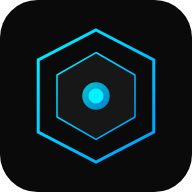
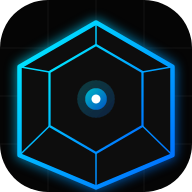
'mission-complete-fixes'

diff --git a/client/src/components/pages/SuperAdminDashboard.jsx b/client/src/components/pages/SuperAdminDashboard.jsx
@@ -358,7 +358,7 @@ const SuperAdminDashboard = () => {
         }
 
         if (videoId) {
-            const thumbUrl = `https:
+            const thumbUrl = `https://img.youtube.com/vi/${videoId}/maxresdefault.jpg`;
             setCourseForm(prev => ({ ...prev, youtubeId: videoId, thumbnailUrl: thumbUrl }));
             
             try {
@@ -371,7 +371,7 @@ const SuperAdminDashboard = () => {
             } catch (err) {
                 console.error("Meta fetch error", err);
                 try {
-                    const response = await fetch(`https:
+                    const response = await fetch(`https://noembed.com/embed?url=https://www.youtube.com/watch?v=${videoId}`);
                     const data = await response.json();
                     if (data.title) {
                         setCourseForm(prev => ({ ...prev, title: data.title }));
@@ -467,14 +467,14 @@ const SuperAdminDashboard = () => {
                                         <tbody className="divide-y divide-gray-50">
                                             {users.filter(u => !u.isApproved).length === 0 ? (
                                                 <tr>
-                                                    <td colSpan="3" className="py-8 text-center text-gray-400 text-xs font-mono">NO PENDING REQUESTS 
+                                                    <td colSpan="3" className="py-8 text-center text-gray-400 text-xs font-mono">NO PENDING REQUESTS</td>
                                                 </tr>
                                             ) : (
                                                 users.filter(u => !u.isApproved).map(user => (
                                                     <tr key={user._id} className="group hover:bg-gray-50 transition-colors">
                                                         <td className="py-4">
                                                             <div className="flex items-center gap-3">
-                                                                <img src={user.profileImage || `https:
+                                                                <img src={user.profileImage || `https://api.dicebear.com/7.x/avataaars/svg?seed=${user.name}`} className="w-8 h-8 rounded-full border border-gray-100" alt="" />
                                                                 <div>
                                                                     <div className="font-bold text-gray-900 text-sm">{user.name}</div>
                                                                     <div className="text-[10px] text-gray-400 font-mono">{user.email}</div>
@@ -661,7 +661,7 @@ const SuperAdminDashboard = () => {
                                         </div>
                                         {p.liveLink && (
                                             <a href={p.liveLink} target="_blank" rel="noopener noreferrer" className="text-[10px] text-gray-400 hover:text-green-600 font-mono transition-colors border-b border-transparent hover:border-green-200 opacity-0 group-hover:opacity-100">
-                                                {p.liveLink.replace('https:
+                                                {p.liveLink.replace('https://', '')}
                                             </a>
                                         )}
                                     </div>
@@ -721,7 +721,7 @@ const SuperAdminDashboard = () => {
                                             </div>
                                             {projectForm.title && (
                                                 <div className="text-[10px] text-blue-600/70 font-mono pl-4">
-                                                    Target: https:
+                                                    Target: https://${projectForm.title.toLowerCase().replace(/\s+/g, '-')}.github.io/Team-Curiosity-offical-Websitee/
                                                 </div>
                                             )}
                                         </div>
@@ -906,7 +906,7 @@ const SuperAdminDashboard = () => {
                             </div>
                             {courses.length === 0 && (
                                 <div className="p-20 text-center bg-gray-50 rounded-xl border border-dashed border-gray-200">
-                                    <div className="text-gray-300 mb-2 font-mono text-xs uppercase tracking-[0.2em]">No Courses Deployed 
+                                    <div className="text-gray-300 mb-2 font-mono text-xs uppercase tracking-[0.2em]">No Courses Deployed</div>
                                     <p className="text-gray-400 text-[10px] uppercase">Add your first YouTube course using the uplink protocol.</p>
                                 </div>
                             )}
@@ -919,7 +919,7 @@ const SuperAdminDashboard = () => {
                                         <label className="text-[10px] uppercase font-bold text-gray-400 tracking-wider">YouTube Uplink [URL]</label>
                                         <input 
                                             className="w-full bg-white border border-gray-200 p-3 rounded text-sm text-gray-900 focus:border-red-500 outline-none mt-1 shadow-sm" 
-                                            placeholder="https:
+                                            placeholder="https://www.youtube.com/watch?v=..."
                                             value={courseForm.youtubeLink} 
                                             onChange={e => handleYoutubeLinkChange(e.target.value)} 
                                             required 
@@ -1047,7 +1047,7 @@ const SuperAdminDashboard = () => {
                             </div>
                             {notes.length === 0 && (
                                 <div className="p-20 text-center bg-gray-50 rounded-xl border border-dashed border-gray-200">
-                                    <div className="text-gray-300 mb-2 font-mono text-xs uppercase tracking-[0.2em]">No Academic Archives 
+                                    <div className="text-gray-300 mb-2 font-mono text-xs uppercase tracking-[0.2em]">No Academic Archives</div>
                                     <p className="text-gray-400 text-[10px] uppercase">Upload your first PDF resource to the central archive.</p>
                                 </div>
                             )}
@@ -1060,7 +1060,7 @@ const SuperAdminDashboard = () => {
                                         <label className="text-[10px] uppercase font-bold text-gray-400 tracking-wider">PDF Source Uplink</label>
                                         <input 
                                             className="w-full bg-white border border-gray-200 p-3 rounded text-sm text-gray-900 focus:border-red-500 outline-none mt-1 shadow-sm" 
-                                            placeholder="https:
+                                            placeholder="https://github.com/username"
                                             value={noteForm.pdfUrl} 
                                             onChange={e => setNoteForm({...noteForm, pdfUrl: e.target.value})} 
                                             required 

diff --git a/client/src/components/pages/AdminDashboard.jsx b/client/src/components/pages/AdminDashboard.jsx
@@ -210,7 +210,7 @@ const AdminDashboard = () => {
         const videoId = (match && match[2].length === 11) ? match[2] : '';
 
         if (videoId) {
-            const thumbUrl = `https:
+            const thumbUrl = `https://img.youtube.com/vi/${videoId}/maxresdefault.jpg`;
             setCourseForm(prev => ({ ...prev, youtubeId: videoId, thumbnailUrl: thumbUrl }));
             try {
                 const { data } = await api.get(`/courses/yt-metadata/${videoId}`);
@@ -223,7 +223,7 @@ const AdminDashboard = () => {
                 console.error("METADATA_FETCH_PROTOCOL_ERROR:", err);
                 
                 try {
-                    const resp = await fetch(`https:
+                    const resp = await fetch(`https://noembed.com/embed?url=https://www.youtube.com/watch?v=${videoId}`);
                     const data = await resp.json();
                     if (data.title) setCourseForm(prev => ({ ...prev, title: data.title }));
                 } catch (e) { console.error(e); }
@@ -454,7 +454,7 @@ const AdminDashboard = () => {
                                             )}
                                             {project.liveLink && (
                                                 <a href={project.liveLink} target="_blank" rel="noopener noreferrer" className="text-[10px] text-gray-400 hover:text-green-600 font-mono transition-colors border-b border-transparent hover:border-green-200">
-                                                    {project.liveLink.replace('https:
+                                                    {project.liveLink.replace('https://', '')}
                                                 </a>
                                             )}
                                         </div>
@@ -513,7 +513,7 @@ const AdminDashboard = () => {
                                             </div>
                                             {projectForm.title && (
                                                 <div className="text-[10px] text-gray-400 font-mono pl-4">
-                                                    Target: https:
+                                                    Target: https://${projectForm.title.toLowerCase().replace(/\s+/g, '-')}.github.io/Team-Curiosity-offical-Websitee/
                                                 </div>
                                             )}
                                         </div>
@@ -549,14 +549,14 @@ const AdminDashboard = () => {
                                 <tbody>
                                     {users.filter(u => !u.isApproved).length === 0 ? (
                                         <tr>
-                                            <td colSpan="3" className="py-8 text-center text-gray-400 text-xs font-mono">NO PENDING REQUESTS 
+                                            <td colSpan="3" className="py-8 text-center text-gray-400 text-xs font-mono">NO PENDING REQUESTS</td>
                                         </tr>
                                     ) : (
                                         users.filter(u => !u.isApproved).map(user => (
                                             <tr key={user._id} className="border-b border-gray-100 last:border-0 hover:bg-gray-50">
                                                 <td className="py-3 px-6">
                                                     <div className="flex items-center gap-3">
-                                                        <img src={user.profileImage || `https:
+                                                        <img src={user.profileImage || `https://api.dicebear.com/7.x/avataaars/svg?seed=${user.name}`} className="w-8 h-8 rounded-full border border-gray-100" alt="" />
                                                         <div>
                                                             <div className="font-bold text-sm">{user.name}</div>
                                                             <div className="text-[10px] text-gray-400 font-mono">{user.email}</div>
@@ -702,7 +702,7 @@ const AdminDashboard = () => {
                             ))}
                             {courses.length === 0 && (
                                 <div className="text-center py-20 bg-gray-50 border border-dashed rounded text-gray-400 text-[10px] uppercase tracking-widest">
-                                    No Courses Found 
+                                    No Courses Found
                                 </div>
                             )}
                         </div>
@@ -712,7 +712,7 @@ const AdminDashboard = () => {
                                 <form onSubmit={handleCourseSubmit} className="space-y-4">
                                     <div>
                                         <label className="text-[10px] uppercase font-bold text-gray-400">YouTube Link</label>
-                                        <input className="w-full border p-2 text-sm mt-1" placeholder="https:
+                                        <input className="w-full border p-2 text-sm mt-1" placeholder="https://www.youtube.com/watch?v=..." value={courseForm.youtubeLink} onChange={e => handleYoutubeLinkChange(e.target.value)} required />
                                     </div>
                                     {courseForm.thumbnailUrl && (
                                         <div className="h-20 w-full rounded overflow-hidden border border-gray-100 mb-2">
@@ -798,7 +798,7 @@ const AdminDashboard = () => {
                             ))}
                             {notes.length === 0 && (
                                 <div className="text-center py-20 bg-gray-50 border border-dashed rounded text-gray-400 text-[10px] uppercase tracking-widest">
-                                    No Academic Notes 
+                                    No Academic Notes
                                 </div>
                             )}
                         </div>
@@ -808,7 +808,7 @@ const AdminDashboard = () => {
                                 <form onSubmit={handleNoteSubmit} className="space-y-4">
                                     <div>
                                         <label className="text-[10px] uppercase font-bold text-gray-400">PDF Uplink [Link]</label>
-                                        <input className="w-full border p-2 text-sm mt-1" placeholder="https:
+                                        <input className="w-full border p-2 text-sm mt-1" placeholder="https://github.com/username" value={noteForm.pdfUrl} onChange={e => setNoteForm({...noteForm, pdfUrl: e.target.value})} required />
                                     </div>
                                     <div>
                                         <label className="text-[10px] uppercase font-bold text-gray-400">Title</label>

diff --git a/client/src/components/layout/Navbar.jsx b/client/src/components/layout/Navbar.jsx
@@ -69,43 +69,7 @@ const Navbar = () => {
         <div className="container mx-auto px-6 h-20 flex items-center justify-between">
             {}
             <Link to="/" className="flex items-center gap-4 z-50 relative hover:opacity-80 transition-opacity group">
-                 <svg width="40" height="40" viewBox="0 0 40 40" fill="none" xmlns="http://www.w3.org/2000/svg">
-                    <defs>
-                        <style>
-                            {`
-                                .shard {
-                                    transform-origin: center;
-                                    animation: assemble 1.5s cubic-bezier(0.16, 1, 0.3, 1) forwards;
-                                }
-                                .shard-1 { animation-delay: 0.1s; transform: translate(-10px, -10px) rotate(-45deg); opacity: 0; }
-                                .shard-2 { animation-delay: 0.2s; transform: translate(10px, -5px) rotate(30deg); opacity: 0; }
-                                .shard-3 { animation-delay: 0.3s; transform: translate(-5px, 15px) rotate(90deg); opacity: 0; }
-                                .core-glow {
-                                    animation: pulse-core 3s infinite ease-in-out;
-                                    opacity: 0;
-                                    animation-delay: 1.5s; 
-                                    animation-fill-mode: forwards; 
-                                }
-                                
-                                @keyframes assemble {
-                                    to { transform: translate(0, 0) rotate(0deg); opacity: 1; }
-                                }
-                                @keyframes pulse-core {
-                                    0%, 100% { opacity: 0.3; transform: scale(0.95); }
-                                    50% { opacity: 0.8; transform: scale(1.05); }
-                                }
-                            `}
-                        </style>
-                    </defs>
-                    
-                    {}
-                    <path d="M20 5L30 25H10L20 5Z" fill="#171717" stroke="#00F3FF" strokeWidth="1" className="shard shard-1"/>
-                    <path d="M10 25L5 35L15 35L10 25Z" fill="#171717" stroke="#00F3FF" strokeWidth="1" className="shard shard-2"/>
-                    <path d="M30 25L35 35L25 35L30 25Z" fill="#171717" stroke="#00F3FF" strokeWidth="1" className="shard shard-3"/>
-                    
-                    {}
-                    <circle cx="20" cy="27" r="2" fill="#00F3FF" className="core-glow"/>
-                </svg>
+                 <img src={`${import.meta.env.BASE_URL}pwa-logo.svg`} alt="Team Curiosity" className="w-10 h-10 object-contain" />
                 
                 <div className="flex flex-col justify-center animate-[fadeIn_1s_ease-out_1.5s_forwards] opacity-0">
                     <span className="text-sm font-bold tracking-[0.2em] text-black leading-none">TEAM</span>

diff --git a/client/src/components/pages/JoinPage.jsx b/client/src/components/pages/JoinPage.jsx
@@ -77,7 +77,7 @@ const JoinPage = () => {
     try {
       const payload = {
         ...formData,
-        avatar: `https:
+        avatar: `https://api.dicebear.com/7.x/avataaars/svg?seed=${selectedAvatar}`,
         programmingLanguages: formData.programmingLanguages.split(',').map(s => s.trim()).filter(s => s),
         inviteToken: token
       };
@@ -142,7 +142,7 @@ const JoinPage = () => {
                         className={`cursor-pointer rounded-full border-2 p-1 transition-all ${selectedAvatar === av.seed ? 'border-black scale-110 shadow-lg' : 'border-transparent hover:border-gray-200 grayscale hover:grayscale-0'}`}
                       >
                           <img 
-                            src={`https:
+                            src={`https://api.dicebear.com/7.x/avataaars/svg?seed=${av.seed}`}
                             alt={av.seed} 
                             className="w-full h-full rounded-full bg-gray-50"
                           />
@@ -258,7 +258,7 @@ const JoinPage = () => {
                         <label className="block text-[10px] font-bold uppercase tracking-wider text-gray-400 mb-1">GitHub Profile</label>
                         <input
                             className="w-full bg-gray-50 border border-gray-200 rounded p-3 text-sm focus:border-black focus:ring-0 outline-none transition-all font-mono"
-                            placeholder="https:
+                            placeholder="https://github.com/username"
                             value={formData.github}
                             onChange={(e) => setFormData({...formData, github: e.target.value})}
                         />
@@ -267,7 +267,7 @@ const JoinPage = () => {
                         <label className="block text-[10px] font-bold uppercase tracking-wider text-gray-400 mb-1">LinkedIn Profile</label>
                         <input
                             className="w-full bg-gray-50 border border-gray-200 rounded p-3 text-sm focus:border-black focus:ring-0 outline-none transition-all font-mono"
-                            placeholder="https:
+                            placeholder="https://linkedin.com/in/username"
                             value={formData.linkedin}
                             onChange={(e) => setFormData({...formData, linkedin: e.target.value})}
                         />

diff --git a/client/src/components/pages/ProfilePage.jsx b/client/src/components/pages/ProfilePage.jsx
@@ -71,7 +71,7 @@ const ProfilePage = () => {
                     <div className="flex items-center gap-6">
                         <div className="w-24 h-24 rounded-full border-2 border-black p-1">
                             <img 
-                                src={user.profileImage || `https:
+                                src={user.profileImage || `https://api.dicebear.com/7.x/avataaars/svg?seed=${user.name}`}
                                 alt="Profile" 
                                 className="w-full h-full rounded-full bg-gray-50 object-cover"
                             />
@@ -174,7 +174,7 @@ const ProfilePage = () => {
                                             className="flex-1 bg-gray-50 border border-black rounded px-2 py-1 text-xs font-mono"
                                             value={editData.github}
                                             onChange={(e) => setEditData({...editData, github: e.target.value})}
-                                            placeholder="https:
+                                            placeholder="https://github.com/username"
                                         />
                                     ) : (
                                         <a href={user.github} target="_blank" rel="noreferrer" className="text-sm font-mono truncate text-blue-600 hover:underline">{user.github || 'N/A'}</a>
@@ -187,7 +187,7 @@ const ProfilePage = () => {
                                             className="flex-1 bg-gray-50 border border-black rounded px-2 py-1 text-xs font-mono"
                                             value={editData.linkedin}
                                             onChange={(e) => setEditData({...editData, linkedin: e.target.value})}
-                                            placeholder="https:
+                                            placeholder="https://linkedin.com/in/username"
                                         />
                                     ) : (
                                         <a href={user.linkedin} target="_blank" rel="noreferrer" className="text-sm font-mono truncate text-blue-600 hover:underline">{user.linkedin || 'N/A'}</a>

diff --git a/client/src/components/sections/Team.jsx b/client/src/components/sections/Team.jsx
@@ -17,7 +17,7 @@ const Team = () => {
                 name: user.role === 'superadmin' ? 'Naseer Pasha' : user.name,
                 codename: `OPERATIVE_0${idx + 1}`,
                 status: "Active",
-                image: `https:
+                image: `https://api.dicebear.com/7.x/avataaars/svg?seed=${user.name}`,
             }));
             const sortedMembers = enhancedData.sort((a, b) => (a.role === 'superadmin' ? -1 : 1));
             setMembers(sortedMembers);
@@ -49,8 +49,7 @@ const Team = () => {
             <div key={member._id} className="group relative bg-white border-2 border-black p-0 overflow-hidden hover:shadow-[8px_8px_0px_0px_rgba(0,0,0,1)] transition-all duration-300">
                 {}
                 <div className="bg-black text-white p-2 flex justify-between items-center font-mono text-[10px] uppercase border-b-2 border-black">
-                    <span>ID: 00{idx + 1}</span>
-                    <span>
+                    <span>{member.codename}</span>
                 </div>
                 
                 <div className="p-6 flex flex-col items-center">

diff --git a/client/src/components/pages/GiftPacket.jsx b/client/src/components/pages/GiftPacket.jsx
@@ -142,7 +142,7 @@ const GiftPacket = ({ onOpen }) => {
                     className="absolute top-1/2 left-1/2 transform -translate-x-1/2 -translate-y-1/2 z-20 cursor-pointer hover:scale-110 transition-transform"
                 >
                     {}
-                    <svg width="120" height="120" viewBox="0 0 100 100" fill="none" xmlns="http:
+                    <svg width="120" height="120" viewBox="0 0 100 100" fill="none" xmlns="http://www.w3.org/2000/svg">
                         <path d="M50 50 C30 20 0 20 0 50 C0 80 30 80 50 50" fill="#EF4444" stroke="#B91C1C" strokeWidth="2"/>
                         <path d="M50 50 C70 20 100 20 100 50 C100 80 70 80 50 50" fill="#EF4444" stroke="#B91C1C" strokeWidth="2"/>
                         <circle cx="50" cy="50" r="10" fill="#B91C1C" />

diff --git a/client/src/components/sections/Leaderboard.jsx b/client/src/components/sections/Leaderboard.jsx
@@ -121,7 +121,7 @@ const Leaderboard = () => {
                                 <div className="col-span-5 flex items-center gap-4">
                                     <div className="w-12 h-12 border-2 border-black p-0.5 shrink-0 bg-white">
                                         <img 
-                                            src={member.profileImage || member.avatar || "https:
+                                            src={member.profileImage || member.avatar || `https://api.dicebear.com/7.x/avataaars/svg?seed=${member.name}`}
                                             alt={member.name} 
                                             className="w-full h-full object-cover grayscale group-hover:grayscale-0 transition-all" 
                                         />

diff --git a/client/src/components/ui/UserGuide.jsx b/client/src/components/ui/UserGuide.jsx
@@ -125,7 +125,7 @@ const UserGuide = () => {
             <div className="bg-[#fcfbf7] w-full max-w-2xl rounded-sm shadow-2xl overflow-hidden relative border-4 border-double border-gray-300" style={{ boxShadow: "10px 10px 30px rgba(0,0,0,0.5)" }}>
                 
                 {}
-                <div className="absolute inset-0 opacity-10 pointer-events-none" style={{ backgroundImage: "url('https:
+                <div className="absolute inset-0 opacity-10 pointer-events-none" style={{ backgroundImage: "url('https://www.transparenttextures.com/patterns/carbon-fibre.png')" }}></div>
 
                 {}
                 <div className="bg-[#1a1a1a] text-[#fcfbf7] p-6 flex justify-between items-center relative z-10 border-b-2 border-[#b8b8b8]">

diff --git a/client/src/components/layout/Footer.jsx b/client/src/components/layout/Footer.jsx
@@ -12,10 +12,10 @@ const Footer = () => {
         </div>
         
         <div className="flex flex-wrap justify-center gap-8 text-sm text-slate-500">
-            <a href="https:
-                <Github size={18} />
-                <span>Github</span>
-            </a>
+             <a href="https://github.com/TeamCuriosity-web" target="_blank" rel="noopener noreferrer" className="flex items-center gap-2 hover:text-black transition-colors">
+                 <Github size={18} />
+                 <span>Github</span>
+             </a>
             <a href="#" className="flex items-center gap-2 hover:text-black transition-colors">
                 <Instagram size={18} />
                 <span>Instagram</span>

diff --git a/client/src/components/ui/ForkInstructionsModal.jsx b/client/src/components/ui/ForkInstructionsModal.jsx
@@ -90,7 +90,7 @@ const ForkInstructionsModal = ({ isOpen, onClose, repoLink }) => {
                                 onClick={() => {
                                     let url = safeRepoLink;
                                     if (!url.endsWith('.git')) url += '.git';
-                                    window.location.href = `vscode:
+                                    window.location.href = `vscode://vscode.git/clone?url=${url}`;
                                 }}
                                 className="text-[10px] font-bold uppercase tracking-widest text-blue-600 hover:underline border border-blue-100 bg-blue-50 px-3 py-1.5 rounded"
                             >

diff --git a/client/src/components/pages/StudyStuffPage.jsx b/client/src/components/pages/StudyStuffPage.jsx
@@ -190,7 +190,7 @@ const StudyStuffPage = () => {
                     <div className="max-w-4xl mx-auto">
                         <div className="text-center mb-16">
                             <h2 className="text-5xl md:text-7xl font-black uppercase tracking-tighter mb-4">Study Vault</h2>
-                            <p className="font-mono text-gray-500">
+                            <p className="font-mono text-gray-500">ACCESSING CENTRAL DATABASE... AUTHORIZED PERSONNEL ONLY</p>
                         </div>
                         <div className="grid grid-cols-1 md:grid-cols-2 gap-12">
                             <DomainCard 
